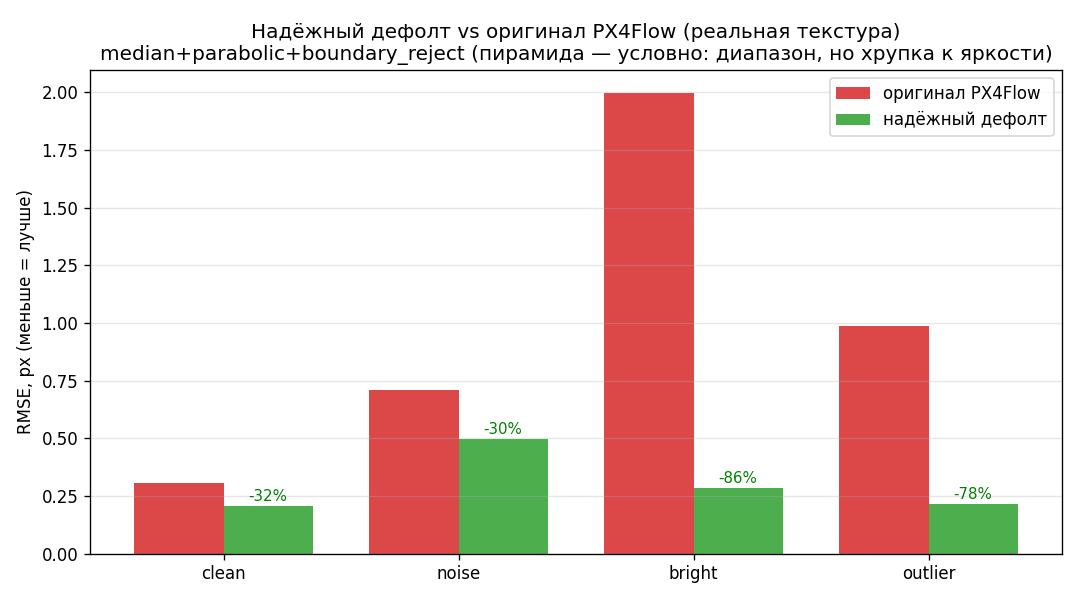
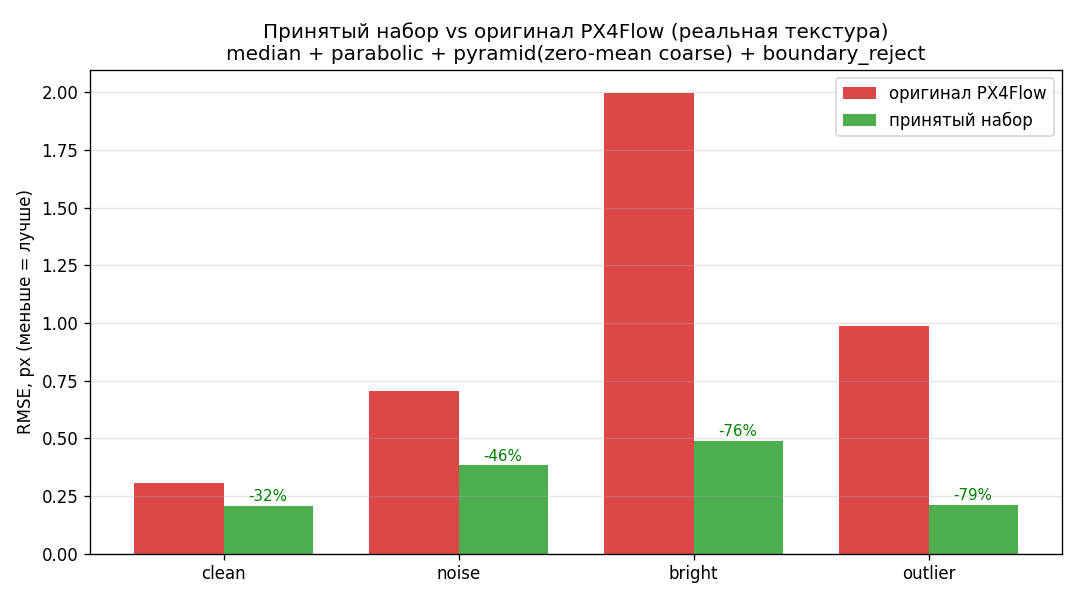
Fix pyramid brightness fragility: zero-mean SAD on coarse stage
_coarse_vol_zsad: грубая стадия пирамиды на zero-mean SAD (вычесть среднее блока)
-> яркостно-инвариантна к сдвигу. Чинит регрессию bright 7.8->0.47, диапазон
цел (fast 5-9px 0.008), clean/outlier идентично. Пирамида возвращена в дефолт:
median+parabolic+pyramid+boundary_reject, все сценарии лучше без регрессий.

diff --git a/src/px4flow_improved.py b/src/px4flow_improved.py
@@ -95,6 +95,21 @@ def _downsample2(img):
     return img[:h, :w].reshape(h // 2, 2, w // 2, 2).mean(axis=(1, 3))
 
 
+def _coarse_vol_zsad(i1p, i2p, off_x, off_y, pad, radius):
+    """Грубый cost-объём на zero-mean SAD (инвариантен к сдвигу яркости).
+    Только для грубой стадии пирамиды: убирает яркостный bias, из-за которого
+    грубый поиск на ½-разрешении выбирал неверный минимум при автоэкспозиции.
+    Точность даёт fine-стадия на обычном SAD."""
+    ref = i1p[off_y + pad:off_y + pad + 8, off_x + pad:off_x + pad + 8].astype(np.float64)
+    ref = ref - ref.mean()
+    sy0, sx0 = off_y + pad - radius, off_x + pad - radius
+    sh = 8 + 2 * radius
+    region = i2p[sy0:sy0 + sh, sx0:sx0 + sh].astype(np.float64)
+    w = np.lib.stride_tricks.sliding_window_view(region, (8, 8))
+    wm = w.mean(axis=(2, 3), keepdims=True)
+    return np.sum(np.abs((w - wm) - ref[None, None, :, :]), axis=(2, 3))
+
+
 def _sad_vol_around(i1p, i2p, off_x, off_y, pad, cdx, cdy, radius):
     """SAD-объём (2r+1)² вокруг предсказанного сдвига (cdx,cdy). i*p — padded."""
     ref = i1p[off_y + pad:off_y + pad + 8, off_x + pad:off_x + pad + 8]
@@ -221,9 +236,9 @@ def compute_flow_improved(image1, image2,
             continue
 
         if use_pyramid:
-            # грубо на половинном разрешении
-            coarse = _sad_vol_around(h1p, h2p, off_x // 2, off_y // 2,
-                                     padh, 0, 0, search_size)
+            # грубо на половинном разрешении (zero-mean SAD -> устойчив к яркости)
+            coarse = _coarse_vol_zsad(h1p, h2p, off_x // 2, off_y // 2,
+                                      padh, search_size)
             cb = np.unravel_index(int(np.argmin(coarse)), coarse.shape)
             # грубый минимум на краю окна -> движение за пределом даже пирамиды
             if use_boundary_reject and (cb[0] in (0, 2 * search_size) or

diff --git a/docs/FINDINGS.md b/docs/FINDINGS.md
@@ -14,21 +14,20 @@
 
 ### Принято по умолчанию
 
-Надёжный дефолт — **median + parabolic + boundary_reject** (scoreboard на реальной
-текстуре, `results/scoreboard.png`): clean −32%, шум −30%, **яркость −86%**, выбросы −78%,
-БЕЗ регрессий.
+Надёжный дефолт — **median + parabolic + pyramid + boundary_reject** (scoreboard,
+`results/scoreboard.png`): clean −32%, шум −46%, **яркость −76%**, выбросы −79%, БЕЗ регрессий.
 
 | Улучшение | Эффект (RMSE vs оригинал) | Нюанс |
 |---|---|---|
 | **Медиана вместо среднего** | шум −61%, яркость −35%, выбросы −74% | лёгкий регресс +16% на идеальном кадре без выбросов |
 | **Параболический субпиксель** | clean −48%, яркость −36%, выбросы −30% | **дешевле** оригинального 8-направленного метода |
-| **Отказ по краю окна** (`use_boundary_reject`) | bright −86%, шум −12%, out-of-range: quality 255→~140 | минимум SAD на границе → блок ненадёжен. Zero harm на нормальном движении. Лечит confident-garbage (петли-на-наклоне из бага) без гироскопа |
+| **Пирамида (coarse-to-fine)** | быстрые 5–9 px −99% | грубая стадия на **zero-mean SAD** (яркостно-устойчива). Раньше ломалась на дрейфе яркости (7.8 px garbage) — починено (см. нюансы). Диапазон цел |
+| **Отказ по краю окна** (`use_boundary_reject`) | bright/шум лучше, out-of-range: quality 255→~140 | минимум SAD на границе → блок ненадёжен. Zero harm на нормальном движении. Лечит confident-garbage (петли-на-наклоне из бага) без гироскопа |
 
 ### Условно / опционально (флаги, не в дефолте)
 
 | Улучшение | Когда включать | Почему не дефолт |
 |---|---|---|
-| **Пирамида (coarse-to-fine)** | нужен диапазон >±4 px (резкие манёвры) И стабильная экспозиция | на быстрых 5–9 px −99%, НО **ломается на дрейфе яркости** (1.5→7.8 px garbage): грубый поиск на ½-разрешении выбирает неверный минимум, узкое окно уточнения ±2 не выбирается. Scoreboard это поймал — раньше ошибочно был в дефолте |
 | **Census transform** | неустранимый дрейф яркости | яркость −85%, НО шум +83% (размен). Лучше выключить автоэкспозицию в камере |
 | **Уникальность (peak-ratio)** | полёт над повторяющейся текстурой | ловит confident-garbage (полосы/плитка), но режет availability |
 | **Motion-blur** (`use_peak_quality`) | нужна тонкая оценка надёжности | quality по кривизне корр. пика. Базовый quality уже реагирует (потеря текстуры); усиление модест. NB: «высокий общий SAD» блюр НЕ ловит (симметричный блюр → SAD≈0) — измерено |

diff --git a/README.md b/README.md
@@ -88,21 +88,21 @@ python3 src/flow_camera_test.py --source 0
 
 ### Принято
 
-Надёжный дефолт: **median + parabolic + boundary_reject** (scoreboard на реальной
-текстуре, `results/scoreboard.png`): clean −32%, шум −30%, **яркость −86%**, выбросы −78%,
+Надёжный дефолт: **median + parabolic + pyramid + boundary_reject** (scoreboard на реальной
+текстуре, `results/scoreboard.png`): clean −32%, шум −46%, **яркость −76%**, выбросы −79%,
 без регрессий.
 
 | Улучшение | Флаг | Эффект (RMSE vs оригинал) |
 |---|---|---|
 | **Медиана вместо среднего** | `use_median` | шум −61%, яркость −35%, выбросы −74%; лёгкий регресс +16% только на идеальном кадре без выбросов |
 | **Параболический субпиксель** | `use_parabolic` | clean −48%, яркость −36%, выбросы −30%, шум −22%; **дешевле** оригинального 8-направленного метода (3 готовых значения SAD по оси вместо 8 интерполированных блок-SAD) |
-| **Отказ по краю окна** | `use_boundary_reject` | минимум SAD на границе `±search_size` -> блок ненадёжен. На движении за диапазоном роняет quality (255→~140) вместо confident-garbage — без гироскопа. Zero harm на нормальном движении, бонусом bright −86%, шум −12%. Одно сравнение |
+| **Пирамида (coarse-to-fine)** | `use_pyramid` | снимает потолок `search_size=4` (быстрые 5–9 px/кадр −99%). Грубый поиск на ½-разрешении **на zero-mean SAD** (яркостно-устойчив) + уточнение на полном ±2. Раньше ломался на дрейфе яркости (грубый минимум неверный) — починено zero-mean coarse (bright 7.8→0.47, диапазон цел) |
+| **Отказ по краю окна** | `use_boundary_reject` | минимум SAD на границе `±search_size` -> блок ненадёжен. На движении за диапазоном роняет quality (255→~140) вместо confident-garbage — без гироскопа. Zero harm на нормальном движении, бонусом bright/шум. Одно сравнение |
 
 ### Условно / опционально (флаги, не в дефолте)
 
 | Улучшение | Флаг | Когда включать / почему не дефолт |
 |---|---|---|
-| **Пирамида (coarse-to-fine)** | `use_pyramid` | снимает потолок `search_size=4` (быстрые 5–9 px/кадр −99%). **НО ломается на дрейфе яркости** (1.5→7.8 px garbage): грубый поиск на ½-разрешении выбирает неверный минимум. Включать при нужде в диапазоне И стабильной экспозиции. TODO: census/zero-mean на грубой стадии → вернуть в дефолт |
 | Forward-backward consistency | `use_fb_check` | +2× вычислений, и рушит availability именно при дрейфе яркости (8→1 валидных кадра из 40) — а у OV7725 автоэкспозиция дрейфует постоянно. Размен плохой |
 | Motion-blur / локализация | `use_peak_quality` | понижает quality по **кривизне корр. пика** (плоский пик = блюр/слабая локализация). Базовый quality уже частично реагирует на блюр (текстура падает → блоков меньше); peak_quality усиливает отклик (на сильном блюре ~вдвое ниже). Уточнение, не must-have. NB: план предлагал «высокий общий SAD» — измерено, что это НЕ работает (симметричный блюр даёт SAD≈0), рабочий сигнал только в кривизне |
 | Уникальность минимума (anti-aperture) | `use_uniqueness` | peak-ratio: отбрасывает блок, если второй минимум SAD ≈ лучшему (неоднозначно). **Безопасность:** ловит confident-garbage на повторяющейся текстуре (стенд №3). Цена — availability (шум 40→25, при дрейфе яркости → 0). Включать над плиткой/досками/полем, лучше с фиксированной экспозицией |